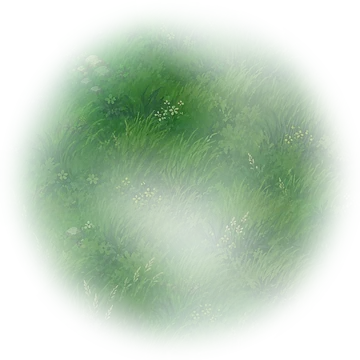
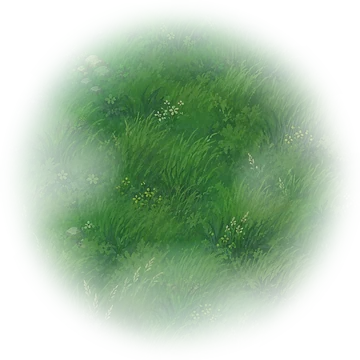
Ready the pipeline for the flag, the board, the library and the post
Five pieces of art to come, and nothing in the app touches them yet.

Four are ordinary sprites and go in JOBS: bounty-board, library,
post-office, flag-pole. The table grew a mirror column — the settlements
were drawn lit from one side and these from the other — and only the new
rows are set. A missing source is already reported and skipped, so the
rows can sit here until the art does.

The flag is not an ordinary sprite: it is eight frames of animation, so
it gets its own SHEETS table and a slicer. Three things it needs that a
single sprite does not, all of them easy to get wrong:

  - frames crop to the union of every frame's bounds, never each to its
    own, or the flag judders instead of waving
  - the mirror runs per frame, or the sheet flips and the animation
    plays backwards
  - nothing touches its colour, because white art multiplied by a colour
    is that colour; the run reports whether the frames are neutral
    enough for that to actually work

Also fixed: patch seeds came from hash(), which Python salts per
process, so every `npm run assets` rewrote twenty ground files with
nothing changed. crc32 instead. Two consecutive runs now hash identical.

Changed region(s): [[0.0917, 0.0611, 0.7944, 0.8556], [0.3056, 0.7639, 0.4278, 0.8556]]

diff --git a/tools/prep_assets.py b/tools/prep_assets.py
@@ -13,6 +13,7 @@ Run:  python3 tools/prep_assets.py
 from collections import deque
 from pathlib import Path
 import sys
+import zlib
 
 from PIL import Image
 
@@ -20,21 +21,56 @@ ROOT = Path(__file__).resolve().parent.parent
 SRC = ROOT / "assets"
 OUT = ROOT / "src" / "assets"
 
-# (source stem, output name, target width)
+# (source stem, output name, target width, mirror)
 #
 # Every variant is prepped: a settlement picks its own art when it is founded,
 # so all three of each kind ship. The output names are what `art` holds on a
 # settlement, and `SETTLEMENT_ART` in src/shared/types.ts has to list the same
 # ones — a name in one and not the other is art that cannot be chosen, or a
 # choice with no art behind it.
+#
+# `mirror` flips the art left-to-right on the way through. The settlements were
+# drawn lit from one side and these later pieces from the other, so mirroring
+# them is what makes a tile look like it belongs on the same map. It is a plain
+# horizontal flip — anything with legible writing on it will read backwards, so
+# check the output rather than trusting the flag.
+#
+# A missing source is reported and skipped, so a row can be written before the
+# art for it exists.
 JOBS = [
-    ("camp-1", "camp-1", 512),
-    ("camp-2", "camp-2", 512),
-    ("camp-3", "camp-3", 512),
-    ("city-castle-1", "city-1", 512),
-    ("city-castle-2", "city-2", 512),
-    ("city-castle-3", "city-3", 512),
-    ("cottage", "cottage", 512),
+    ("camp-1", "camp-1", 512, False),
+    ("camp-2", "camp-2", 512, False),
+    ("camp-3", "camp-3", 512, False),
+    ("city-castle-1", "city-1", 512, False),
+    ("city-castle-2", "city-2", 512, False),
+    ("city-castle-3", "city-3", 512, False),
+    ("cottage", "cottage", 512, False),
+    # Drawn but not yet used by anything. Prepped so they are ready and so the
+    # pipeline is the only place that has ever touched them.
+    ("bounty-board", "bounty-board", 512, True),
+    ("library", "library", 512, True),
+    ("post-office", "post-office", 512, True),
+    ("flag-pole", "flag-pole", 512, True),
+]
+
+# Animation sheets: (source stem, output name, columns, rows, frame width, mirror)
+#
+# Sliced into `name-0.png` … `name-N.png`, one file per frame, which is what
+# the renderer's sprite loader already understands.
+#
+# Three things a sheet needs that a single sprite does not:
+#
+#   * Frames are cropped to the union of every frame's bounds, never each to
+#     its own. Cropping frame by frame recentres each one and the animation
+#     judders in place instead of playing.
+#   * The mirror is applied per frame. Flipping the sheet whole would also
+#     reverse the order the frames play in.
+#   * The flag is drawn white so it can be tinted at draw time — white
+#     multiplied by a colour is that colour, and the greys stay as shading.
+#     Nothing here may touch its colour, and `--sheet-report` says whether the
+#     art really is neutral enough for that to work.
+SHEETS = [
+    ("flag", "flag", 8, 1, 256, True),
 ]
 
 # How close to the corner colour still counts as background.
@@ -204,7 +240,11 @@ def bake_patches(src: Image.Image, name: str, weight: int) -> list[dict]:
     for si, (canvas, fill) in enumerate(PATCH_SIZES):
         field = tiled(src, canvas)
         for j in range(SHAPES_PER_SIZE):
-            mask = blob_mask(canvas, fill, (hash(name) & 0xFFFF) + si * 7919 + j * 104729)
+            # crc32, not hash(): Python salts string hashing per process, so
+            # hash() reshuffled every patch on every run and each `npm run
+            # assets` produced twenty files of diff that meant nothing.
+            seed = (zlib.crc32(name.encode()) & 0xFFFF) + si * 7919 + j * 104729
+            mask = blob_mask(canvas, fill, seed)
             patch = field.convert("RGBA")
             patch.putalpha(mask)
             box = patch.getbbox()
@@ -484,9 +524,69 @@ def prepare_ground(width: int = 512) -> None:
     print(f"  ground.json: base + {len(patches)} patches")
 
 
+def prepare_sheets() -> None:
+    """Slice each animation sheet into one PNG per frame."""
+    for stem, name, cols, rows, width, mirror in SHEETS:
+        src = SRC / f"{stem}.png"
+        if not src.exists():
+            print(f"  !! missing {src}")
+            continue
+        sheet = Image.open(src)
+        if sheet.width % cols or sheet.height % rows:
+            print(f"  !! {stem}.png is {sheet.size}, which {cols}x{rows} does not divide evenly")
+            continue
+        fw, fh = sheet.width // cols, sheet.height // rows
+
+        keyed = sheet.mode in ("RGBA", "LA") and sheet.getchannel("A").getextrema()[0] < 250
+        frames = []
+        for i in range(cols * rows):
+            x, y = (i % cols) * fw, (i // cols) * fh
+            f = sheet.crop((x, y, x + fw, y + fh))
+            frames.append(f.convert("RGBA") if keyed else key_background(f))
+        if keyed:
+            print(f"  {stem}.png has its own alpha — keying skipped")
+        else:
+            # A white flag flattened onto a pale background is the one case the
+            # flood fill cannot survive: it cannot tell the art from the paper.
+            print(f"  !! {stem}.png is opaque, so the background was keyed by colour."
+                  f" If the art is white on white, check the frames before trusting them.")
+
+        # One box for every frame, so the flag stays nailed to its pole.
+        boxes = [f.getbbox() for f in frames]
+        boxes = [b for b in boxes if b]
+        if boxes:
+            union = (min(b[0] for b in boxes), min(b[1] for b in boxes),
+                     max(b[2] for b in boxes), max(b[3] for b in boxes))
+            frames = [f.crop(union) for f in frames]
+
+        height = round(width * frames[0].height / frames[0].width)
+        for i, f in enumerate(frames):
+            f = f.resize((width, height), Image.LANCZOS)
+            # Per frame, so the order plays forwards.
+            if mirror:
+                f = f.transpose(Image.FLIP_LEFT_RIGHT)
+            f.save(OUT / f"{name}-{i}.png", optimize=True)
+
+        # Is it actually tintable? Multiply only reads as a colour change if the
+        # art is neutral; a sheet with real colour in it will come out muddy.
+        rgb = frames[0].convert("RGBA")
+        px = rgb.load()
+        spread, lit = 0, 0
+        for yy in range(0, rgb.height, 3):
+            for xx in range(0, rgb.width, 3):
+                r, g, b, a = px[xx, yy]
+                if a < 200:
+                    continue
+                lit += 1
+                spread = max(spread, max(r, g, b) - min(r, g, b))
+        neutral = "neutral — multiply will tint cleanly" if spread <= 16 else f"has colour (spread {spread}) — multiply will muddy it"
+        print(f"  {stem}.png -> {name}-0..{len(frames) - 1}.png  {width}x{height} each"
+              f"{' · mirrored' if mirror else ''}  ·  {neutral}")
+
+
 def main() -> int:
     OUT.mkdir(parents=True, exist_ok=True)
-    for stem, name, width in JOBS:
+    for stem, name, width, mirror in JOBS:
         src = SRC / f"{stem}.png"
         if not src.exists():
             print(f"  !! missing {src}")
@@ -505,9 +605,15 @@ def main() -> int:
             img = img.crop(box)
         height = round(width * img.height / img.width)
         img = img.resize((width, height), Image.LANCZOS)
+        # Last, so what is written is what you look at — the crop and the
+        # downscale both work the same either way round.
+        if mirror:
+            img = img.transpose(Image.FLIP_LEFT_RIGHT)
         dst = OUT / f"{name}.png"
         img.save(dst, optimize=True)
-        print(f"  {stem}.png -> {dst.name}  {width}x{height}  ratio {img.width / img.height:.4f}")
+        flipped = " · mirrored" if mirror else ""
+        print(f"  {stem}.png -> {dst.name}  {width}x{height}  ratio {img.width / img.height:.4f}{flipped}")
+    prepare_sheets()
     prepare_ground()
     prepare_banner()
     prepare_parchment()
